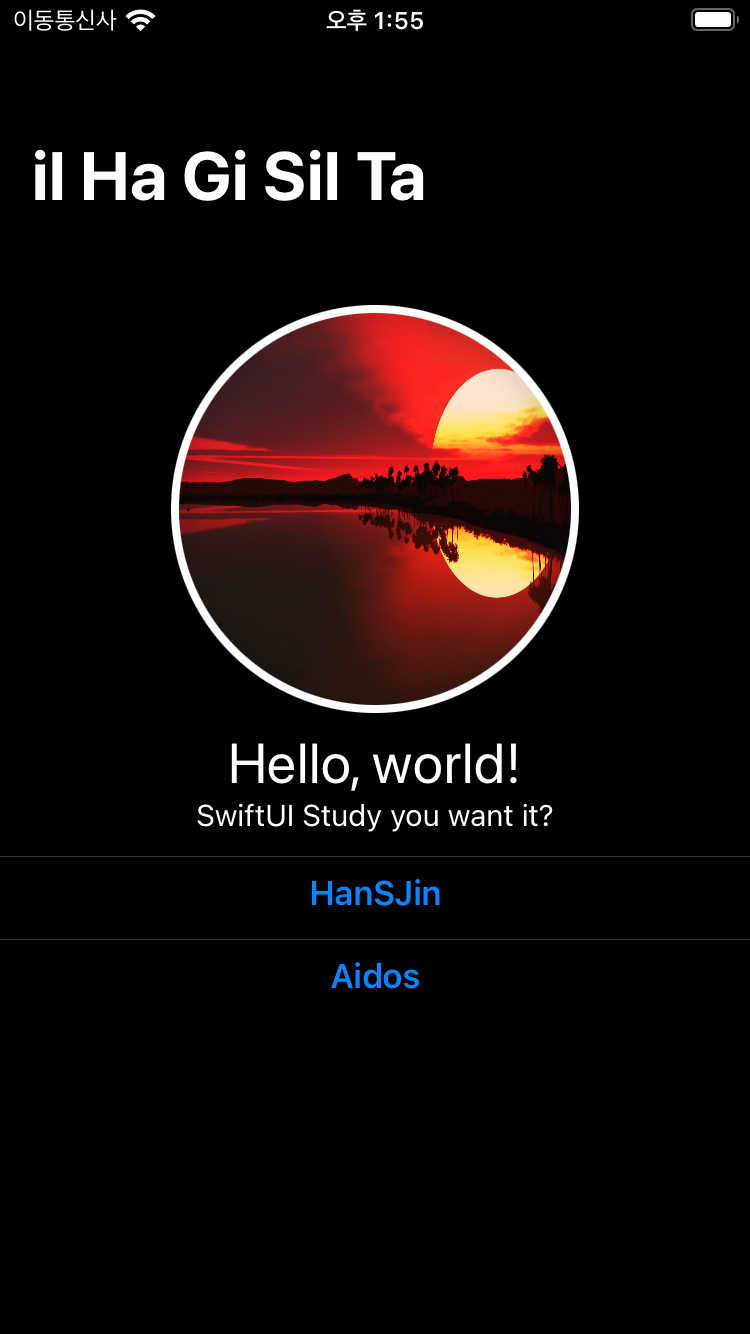
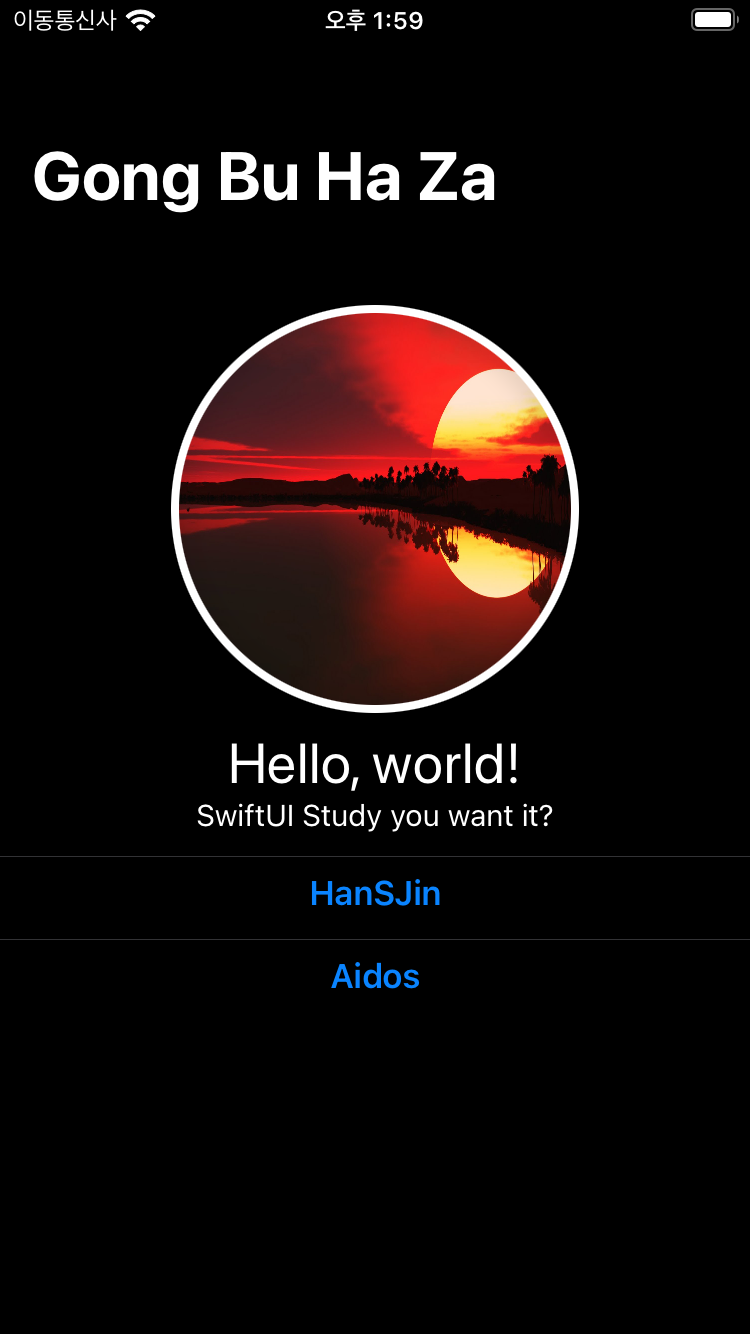
Update: Image

Changed region(s): [[0.0307, 0.0922, 0.6747, 0.1844], [0.4293, 0.0, 0.552, 0.0307]]

diff --git a/StudySwiftUI/ContentView.swift b/StudySwiftUI/ContentView.swift
@@ -38,7 +38,7 @@ struct ContentView: View {
                         .font(.headline)
                 }
             }
-            .navigationTitle("il Ha Gi Sil Ta")
+            .navigationTitle("Gong Bu Ha Za")
         }
     }
 }
